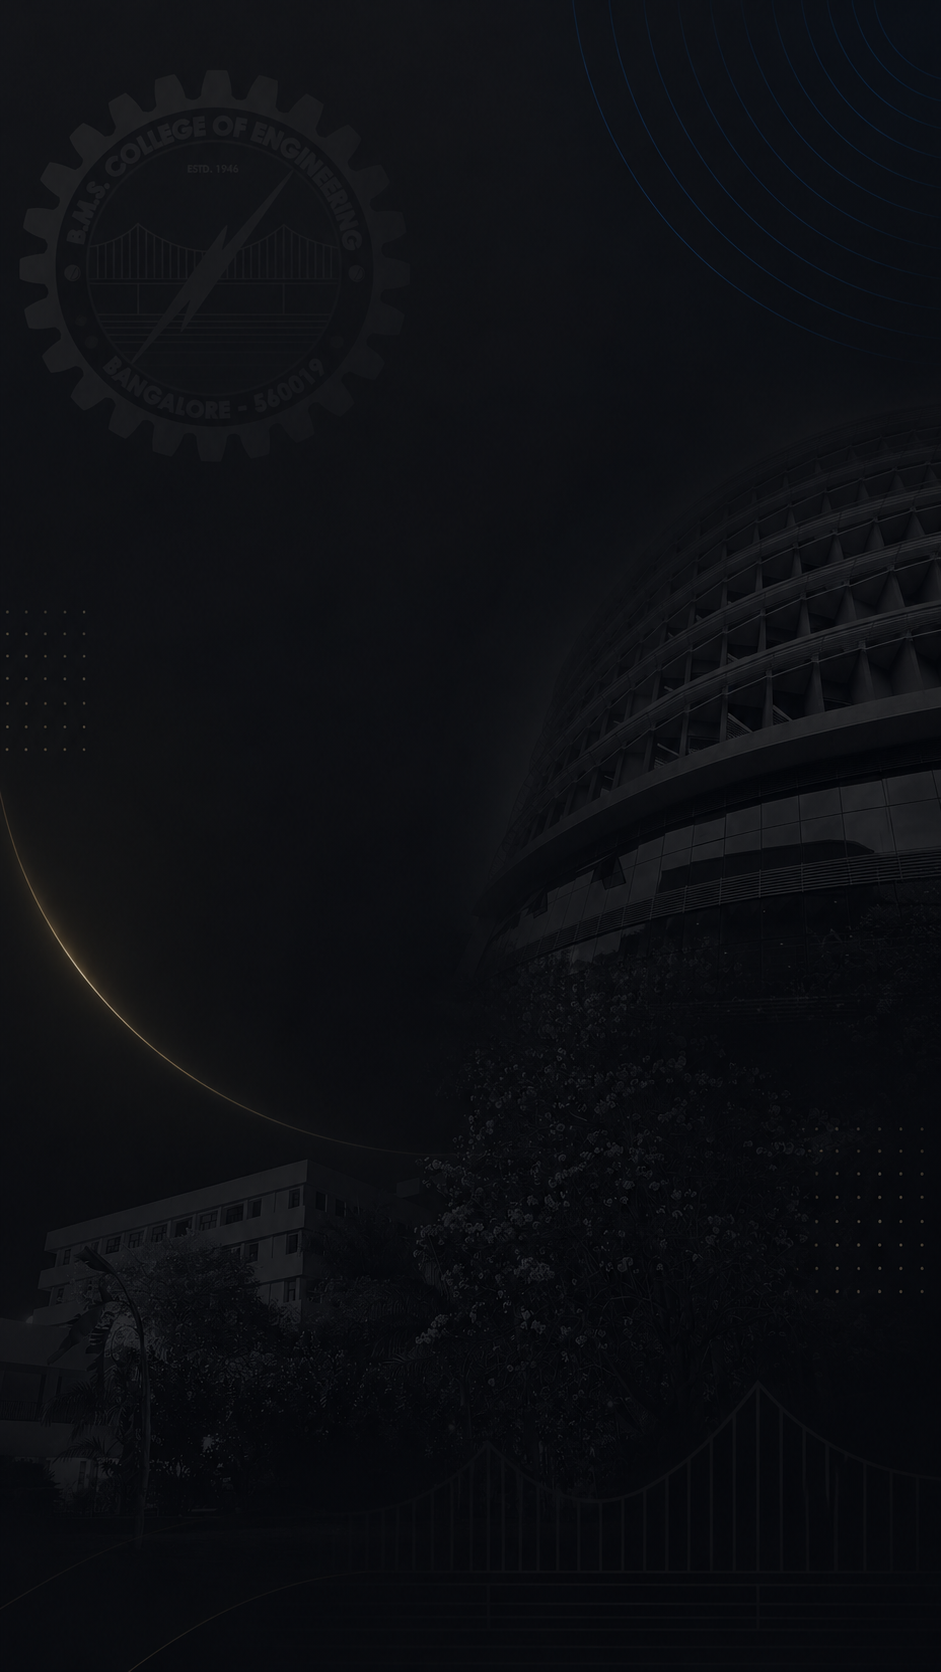
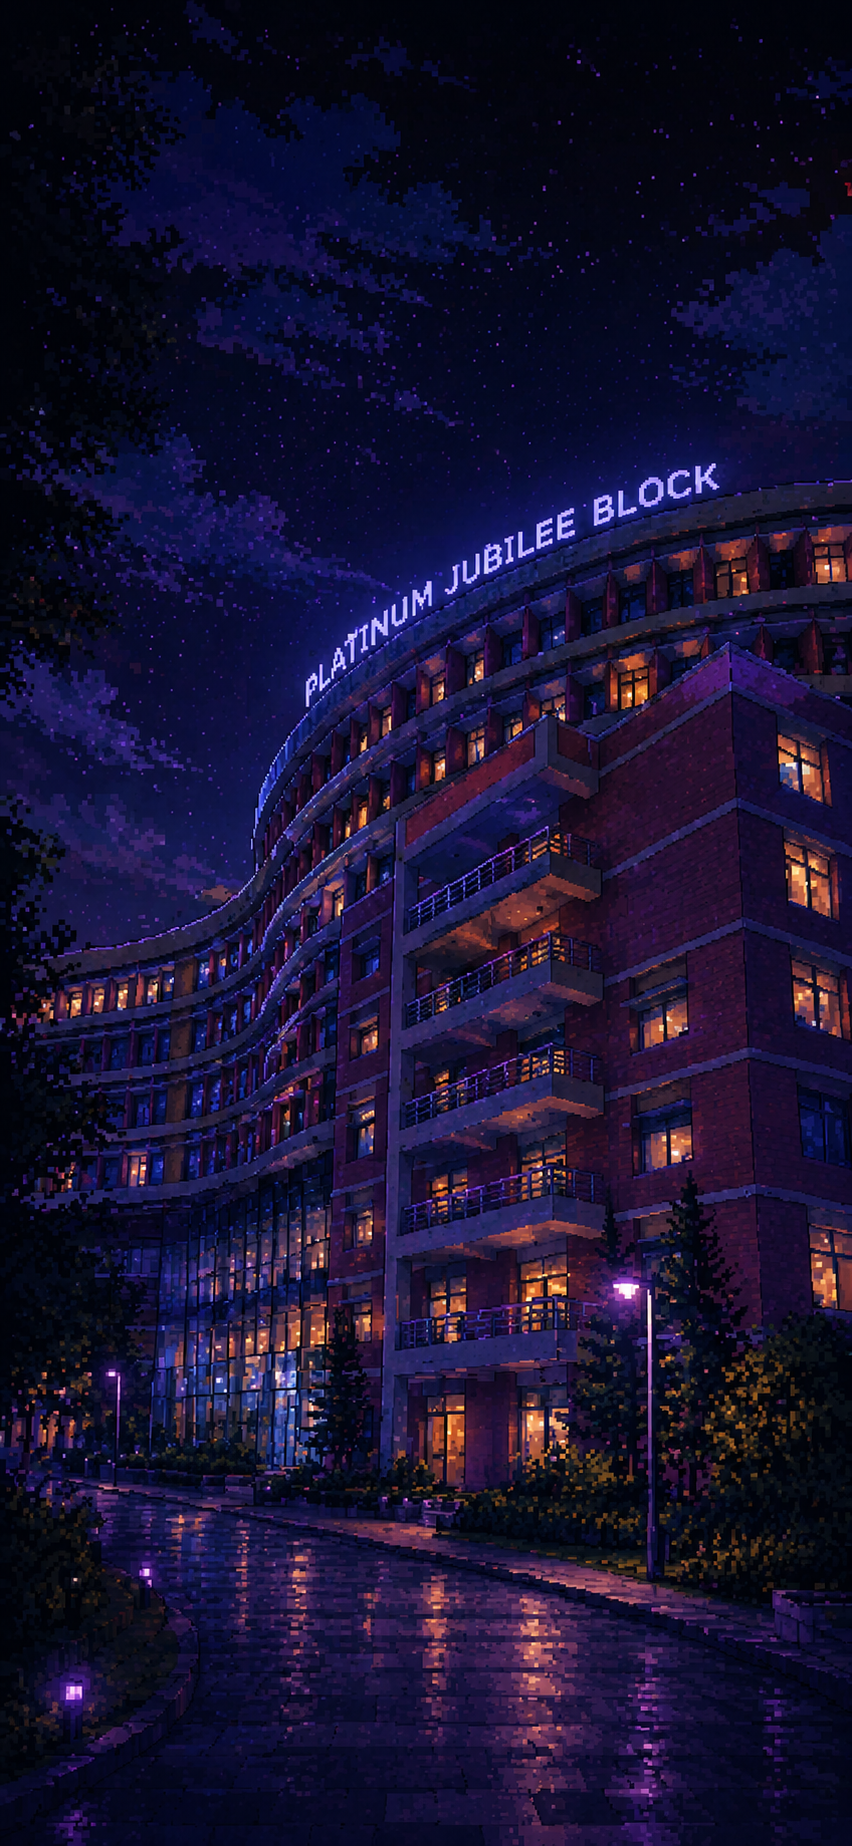
fixed looks of login and others

diff --git a/frontend/app/(auth)/login.tsx b/frontend/app/(auth)/login.tsx
@@ -20,6 +20,7 @@ import { ScreenContainer } from "@/components/ui/screen-container";
 import { normalizeUsn, USN_LENGTH, USN_REGEX } from "@/constants/validation";
 import { useAuth } from "@/context/auth-context";
 import { API_ENDPOINTS } from "@/config/api"; // Importing global endpoint config
+import { sendOtp } from "@/services/auth";
 
 export default function LoginScreen() {
   const { setPendingUsn } = useAuth();
@@ -81,7 +82,7 @@ export default function LoginScreen() {
           style={styles.keyboardView}
         >
           <View style={styles.cardContainer}>
-            <BlurView intensity={30} tint="dark" style={styles.glassCard}>
+            <BlurView intensity={50} tint="dark" style={styles.glassCard}>
               <View style={styles.header}>
                 <LinearGradient
                   colors={["#6366f1", "#a855f7", "#ec4899"]}
@@ -112,6 +113,7 @@ export default function LoginScreen() {
                     onChangeText={(text) => setUsn(normalizeUsn(text))}
                     placeholder="e.g. 1BM24CS001"
                     maxLength={USN_LENGTH}
+                    style={styles.input}
                     autoFocus
                     error={error ?? undefined}
                     autoCapitalize="characters"
@@ -120,14 +122,15 @@ export default function LoginScreen() {
 
                 <View style={styles.buttonContainer}>
                   <PrimaryButton
-                    label={loading ? "Sending..." : "Send OTP"}
+                    label="Send OTP"
+                    loading={loading} // Use the built-in loading prop
                     onPress={handleContinue}
-                    disabled={!isValid || loading}
+                    disabled={!isValid}
+                    style={styles.loginButton} // Add this line
                   >
                     {loading && (
                       <ActivityIndicator
                         color="#fff"
-                        style={{ marginRight: 8 }}
                       />
                     )}
                   </PrimaryButton>
@@ -151,6 +154,14 @@ const styles = StyleSheet.create({
     flex: 1,
     width: "100%",
   },
+  input: {
+    backgroundColor: "#00000050",
+    color: "#f0f0f097", // typed text color
+    borderRadius: 10,
+    paddingHorizontal: 12,
+    paddingVertical: 12,
+    borderColor: "#ffffff22",
+  },
   keyboardView: {
     flex: 1,
     width: "100%",
@@ -168,7 +179,7 @@ const styles = StyleSheet.create({
     padding: 32,
     borderWidth: 1,
     borderColor: "rgba(255, 255, 255, 0.08)",
-    backgroundColor: "rgba(18, 18, 18, 0.4)",
+    backgroundColor: "rgba(18, 18, 18, 0.75)",
     overflow: "hidden",
   },
   header: {
@@ -178,14 +189,14 @@ const styles = StyleSheet.create({
   logoMarker: {
     width: 72,
     height: 72,
-    borderRadius: 24,
+    borderRadius: 36,
     alignItems: "center",
     justifyContent: "center",
     marginBottom: 20,
     shadowColor: "#a855f7",
     shadowOffset: { width: 0, height: 8 },
     shadowOpacity: 0.4,
-    shadowRadius: 16,
+    shadowRadius: 50,
     elevation: 10,
   },
   heading: {
@@ -233,6 +244,15 @@ const styles = StyleSheet.create({
   logoImage: {
     width: 72,
     height: 72,
-    borderRadius: 24,
+    borderRadius: 5,
+  },
+  loginButton: {
+    backgroundColor: "#a78bfa",
+    // You can also add shadows or specific purple shades here
+    shadowColor: "#a78bfa",
+    shadowOffset: { width: 0, height: 4 },
+    shadowOpacity: 0.3,
+    shadowRadius: 8,
+    elevation: 5,
   },
 });

diff --git a/frontend/app/(auth)/otp.tsx b/frontend/app/(auth)/otp.tsx
@@ -166,6 +166,7 @@ export default function OtpScreen() {
                   <PrimaryButton
                     label={loading ? "Verifying..." : "Verify & Continue"}
                     onPress={handleVerify}
+                    style={styles.loginButton}
                     disabled={!isValid || loading}
                   >
                     {loading && (
@@ -230,7 +231,7 @@ const styles = StyleSheet.create({
     padding: 32,
     borderWidth: 1,
     borderColor: "rgba(255, 255, 255, 0.08)",
-    backgroundColor: "rgba(18, 18, 18, 0.4)",
+    backgroundColor: "rgba(18, 18, 18, 0.6)",
     overflow: "hidden",
   },
   header: {
@@ -253,7 +254,7 @@ const styles = StyleSheet.create({
   },
   usnHallmark: {
     fontWeight: "700",
-    color: "#6366f1",
+    color: "#a78bfa", // Updated from #6366f1
   },
   form: {
     gap: 24,
@@ -264,10 +265,10 @@ const styles = StyleSheet.create({
   elevatedLabel: {
     fontSize: 13,
     fontWeight: "700",
-    color: "#6366f1",
+    color: "#a78bfa", // Updated from #6366f1
     textTransform: "uppercase",
     letterSpacing: 1.5,
-    textShadowColor: "rgba(168, 85, 247, 0.4)",
+    textShadowColor: "rgba(167, 139, 250, 0.4)", // Updated shadow to match
     textShadowOffset: { width: 0, height: 0 },
     textShadowRadius: 8,
     paddingLeft: 4,
@@ -277,6 +278,9 @@ const styles = StyleSheet.create({
     textAlign: "center",
     fontSize: 24,
     fontWeight: "700",
+    backgroundColor:"#00000065",
+    color : "#b8b8b8",
+    borderColor:"#ffffff3a",
   },
   buttonContainer: {
     gap: 16,
@@ -289,7 +293,7 @@ const styles = StyleSheet.create({
   },
   resend: {
     textAlign: "center",
-    color: "#6366f1", // Sleek indigo option for actions
+    color: "#a78bfa", // Updated from #6366f1
     fontWeight: "600",
     fontSize: 14,
   },
@@ -298,5 +302,14 @@ const styles = StyleSheet.create({
     color: "#71717a",
     fontSize: 14,
     fontWeight: "500",
+  },
+   loginButton: {
+    backgroundColor: "#a78bfa",
+    // You can also add shadows or specific purple shades here
+    shadowColor: "#a78bfa",
+    shadowOffset: { width: 0, height: 4 },
+    shadowOpacity: 0.3,
+    shadowRadius: 8,
+    elevation: 5,
   },
 });

diff --git a/frontend/app/(tabs)/group.tsx b/frontend/app/(tabs)/group.tsx
@@ -24,7 +24,7 @@ import type { TravelRoute } from "@/types/route";
 
 const BACKGROUND_IMAGE = require("@/assets/images/background.png");
 const ANIMATED_ICON = require("@/assets/images/icon.gif");
-const TRAVEL_GIF = require("@/assets/animated/travel.gif");
+const ANIMATED_BANNER = require("@/assets/animated/group.gif");
 
 const AVATARS: Record<number, any> = {
   1: require("@/assets/images/avatars/avatar1.png"),
@@ -349,7 +349,7 @@ export default function GroupScreen() {
                 <View style={styles.headerGifBox}>
                   <Image source={ANIMATED_ICON} style={styles.headerGif} />
                 </View>
-                <Text style={styles.headerTitle}>Your Group Pipeline</Text>
+                <Text style={styles.headerTitle}>Your Group Information</Text>
               </View>
               <View style={styles.statusBadge}>
                 <Text style={styles.statusText}>
@@ -366,22 +366,22 @@ export default function GroupScreen() {
 
           <View style={styles.mapBannerCard}>
             <ImageBackground
-              source={TRAVEL_GIF}
+              source={ANIMATED_BANNER}
               style={styles.mapBannerImage}
-              imageStyle={{ opacity: 0.4 }}
+              imageStyle={{ opacity: 0.2 }}
               resizeMode="cover"
             >
               <View style={styles.mapBannerOverlay}>
                 <View>
                   <Text style={styles.mapBannerTitle}>
-                    Find Your Ride Bunch
+                    Your Group info will appear here
                   </Text>
                   <Text style={styles.mapBannerSubtitle}>
-                    Split fares, meet peers, save time
+                    Don't be late for the ride!
                   </Text>
                 </View>
                 <View style={styles.mapBannerIconBox}>
-                  <Ionicons name="people" size={20} color="#8B5CF6" />
+                  <Ionicons name="people" size={20} color="#ffffff" />
                 </View>
               </View>
             </ImageBackground>
@@ -955,7 +955,7 @@ const styles = StyleSheet.create({
     justifyContent: "space-between",
     paddingHorizontal: 20,
   },
-  mapBannerTitle: {
+ mapBannerTitle: {
     fontSize: 16,
     fontWeight: "700",
     color: "#FFFFFF",

diff --git a/frontend/app/(tabs)/profile.tsx b/frontend/app/(tabs)/profile.tsx
@@ -9,8 +9,8 @@ import { PrimaryButton } from "@/components/ui/primary-button";
 import { useAuth } from "@/context/auth-context";
 
 const BACKGROUND_IMAGE = require("@/assets/images/background.png");
-const ANIMATED_ICON = require("@/assets/images/icon.gif");
-const MAP_PLACEHOLDER = require("@/assets/images/map-placeholder.png");
+const ANIMATED_ICON = require("@/assets/images/icon_w.gif");
+const ANIMATED_BANNER = require("@/assets/animated/profile.gif");
 
 const AVATARS: Record<number, any> = {
   1: require("@/assets/images/avatars/avatar1.png"),
@@ -83,7 +83,7 @@ export default function ProfileScreen() {
         {/* FLOATING ACTION BANNER FEATURING THE ANIMATED GIF */}
         <View style={styles.mapBannerCard}>
           <ImageBackground 
-            source={MAP_PLACEHOLDER} 
+            source={ANIMATED_BANNER} 
             style={styles.mapBannerImage}
             imageStyle={{ opacity: 0.35 }}
             resizeMode="cover"
@@ -100,7 +100,7 @@ export default function ProfileScreen() {
               </View>
               
               <View style={styles.scorePill}>
-                <Ionicons name="star" size={13} color="#A78BFA" />
+                <Ionicons name="star" size={13} color="#ffffff" />
                 <Text style={styles.scoreValue}>
                   {user?.reputationScore ?? 100}
                 </Text>
@@ -210,7 +210,7 @@ const styles = StyleSheet.create({
   gifContainer: {
     width: 40,
     height: 40,
-    borderRadius: 12,
+    borderRadius: 5,
     overflow: "hidden",
     backgroundColor: "#171719",
     borderWidth: 1,
@@ -236,17 +236,17 @@ const styles = StyleSheet.create({
     flexDirection: "row",
     alignItems: "center",
     gap: 4,
-    backgroundColor: "rgba(139, 92, 246, 0.12)",
+    backgroundColor: "rgba(255, 255, 255, 0.15)",
     borderRadius: 14,
     paddingHorizontal: 10,
     paddingVertical: 6,
     borderWidth: 1,
-    borderColor: "rgba(139, 92, 246, 0.25)",
+    borderColor: "rgba(255, 255, 255, 0.38)",
   },
   scoreValue: {
     fontSize: 13,
     fontWeight: "700",
-    color: "#E9D5FF",
+    color: "#bdbcbe",
   },
   card: {
     backgroundColor: "rgba(23, 23, 23, 0.45)",

diff --git a/frontend/app/(tabs)/history.tsx b/frontend/app/(tabs)/history.tsx
@@ -23,7 +23,7 @@ import type { TravelRoute } from "@/types/route";
 
 const BACKGROUND_IMAGE = require("@/assets/images/background.png");
 const ANIMATED_ICON = require("@/assets/images/icon.gif");
-const MAP_PLACEHOLDER = require("@/assets/images/map-placeholder.png");
+const ANIMATED_BANNER = require("@/assets/animated/history.gif");
 
 const AVATARS: Record<number, any> = {
   1: require("@/assets/images/avatars/avatar1.png"),
@@ -143,7 +143,7 @@ export default function HistoryScreen() {
               {/* FLOATING MAP LAYOUT BANNER */}
               <View style={styles.mapBannerCard}>
                 <ImageBackground 
-                  source={MAP_PLACEHOLDER} 
+                  source={ANIMATED_BANNER} 
                   style={styles.mapBannerImage}
                   imageStyle={{ opacity: 0.35 }}
                   resizeMode="cover"
@@ -154,7 +154,7 @@ export default function HistoryScreen() {
                       <Text style={styles.mapBannerSubtitle}>Total verified trip files logged: {history.length}</Text>
                     </View>
                     <View style={styles.mapBannerIconBox}>
-                      <Ionicons name="folder-open-outline" size={18} color="#8B5CF6" />
+                      <Ionicons name="book" size={18} color="#f4ecbf" />
                     </View>
                   </View>
                 </ImageBackground>
@@ -291,7 +291,7 @@ const styles = StyleSheet.create({
   },
   mapBannerImage: {
     width: "100%",
-    height: 90,
+    height: 120,
     justifyContent: "center",
   },
   mapBannerOverlay: {

diff --git a/frontend/app/(tabs)/index.tsx b/frontend/app/(tabs)/index.tsx
@@ -22,7 +22,7 @@ import { useAuth } from "@/context/auth-context";
 import type { TravelRoute } from "@/types/route";
 
 const MAP_PLACEHOLDER = require("@/assets/images/map-placeholder.png");
-const TRAVEL_GIF = require("@/assets/animated/travel.gif");
+const ANIMATED_BANNER = require("@/assets/animated/travel.gif");
 
 const AVATARS: Record<number, any> = {
   1: require("@/assets/images/avatars/avatar1.png"),
@@ -130,7 +130,7 @@ export default function HomeScreen() {
       {/* FLOATING MAP PLACEHOLDER BANNER */}
       <View style={styles.mapBannerCard}>
         <ImageBackground
-          source={TRAVEL_GIF}
+          source={ANIMATED_BANNER}
           style={styles.mapBannerImage}
           imageStyle={{ opacity: 0.4 }}
           resizeMode="cover"

diff --git a/frontend/app/index.tsx b/frontend/app/index.tsx
@@ -55,7 +55,7 @@ const styles = StyleSheet.create({
   title: {
     fontSize: 40,
     fontWeight: "800",
-    color: BrandColors.primary,
+    color: "#ffffff",
     letterSpacing: 1,
     // textTransform: "uppercase",
   },